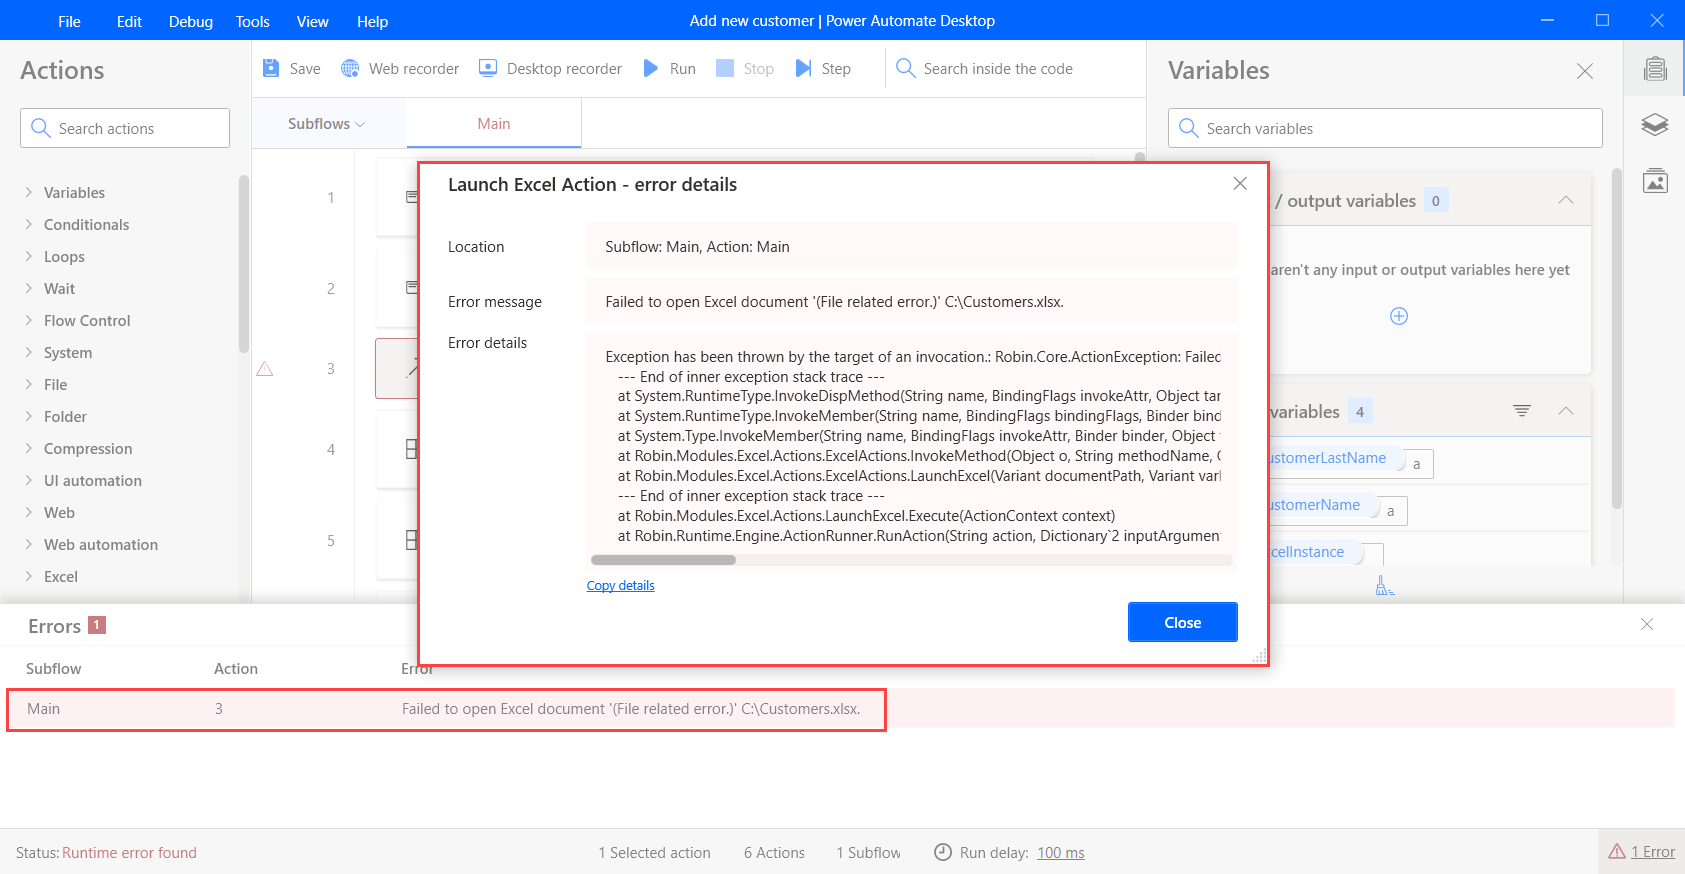
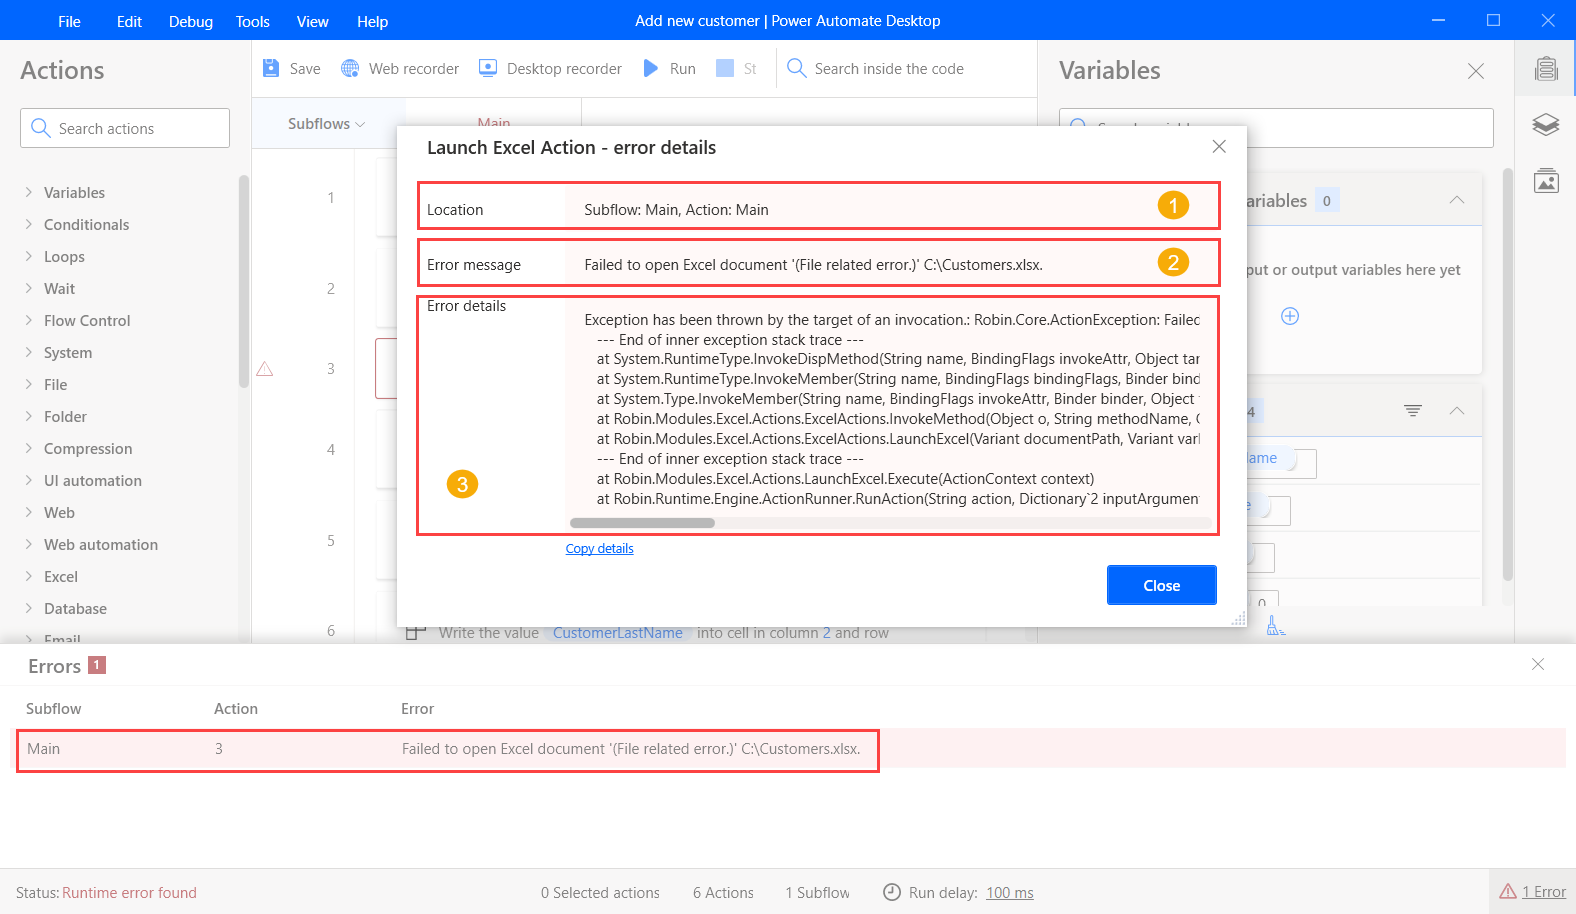
Corrections + new screenshots

diff --git a/articles/ui-flows/desktop/errors/error-detail-view.md b/articles/ui-flows/desktop/errors/error-detail-view.md
@@ -18,8 +18,8 @@ search.audienceType:
 
 To find more information about a thrown exception, navigate to the **Errors** pane and double-click on the respective error. Once you do so, the **Error details** dialog will appear. This dialog displays information about:
 
-- **Location**: The subflow and the action that threw the error.
-- **Error message**: The error message.
-- **Error details**: A long description of the error. These details give a clear message about why the error happened and what the cause is.
+1. **Location**: The subflow and the action that threw the error.
+2. **Error message**: The error message.
+3. **Error details**: A long description of the error. These details give a clear message about why the error happened and what the cause is.
 
 ![The Error details dialog](../media/error-detail-view/error-details.png)

diff --git a/articles/ui-flows/desktop/errors/errors.md b/articles/ui-flows/desktop/errors/errors.md
@@ -26,7 +26,7 @@ The **run time** errors or exceptions come up when the flow is running. These er
 
 ![A run time error.](../media/errors/run-time-error.png)
 
-When any action throws an error, the platform displays an error icon next to it and a pop-up pane with relevant error information. 
+When an action throws an error, the platform displays an error icon next to it and a pop-up pane with relevant error information. 
 
 The **Errors** pane is split into three columns:
 
